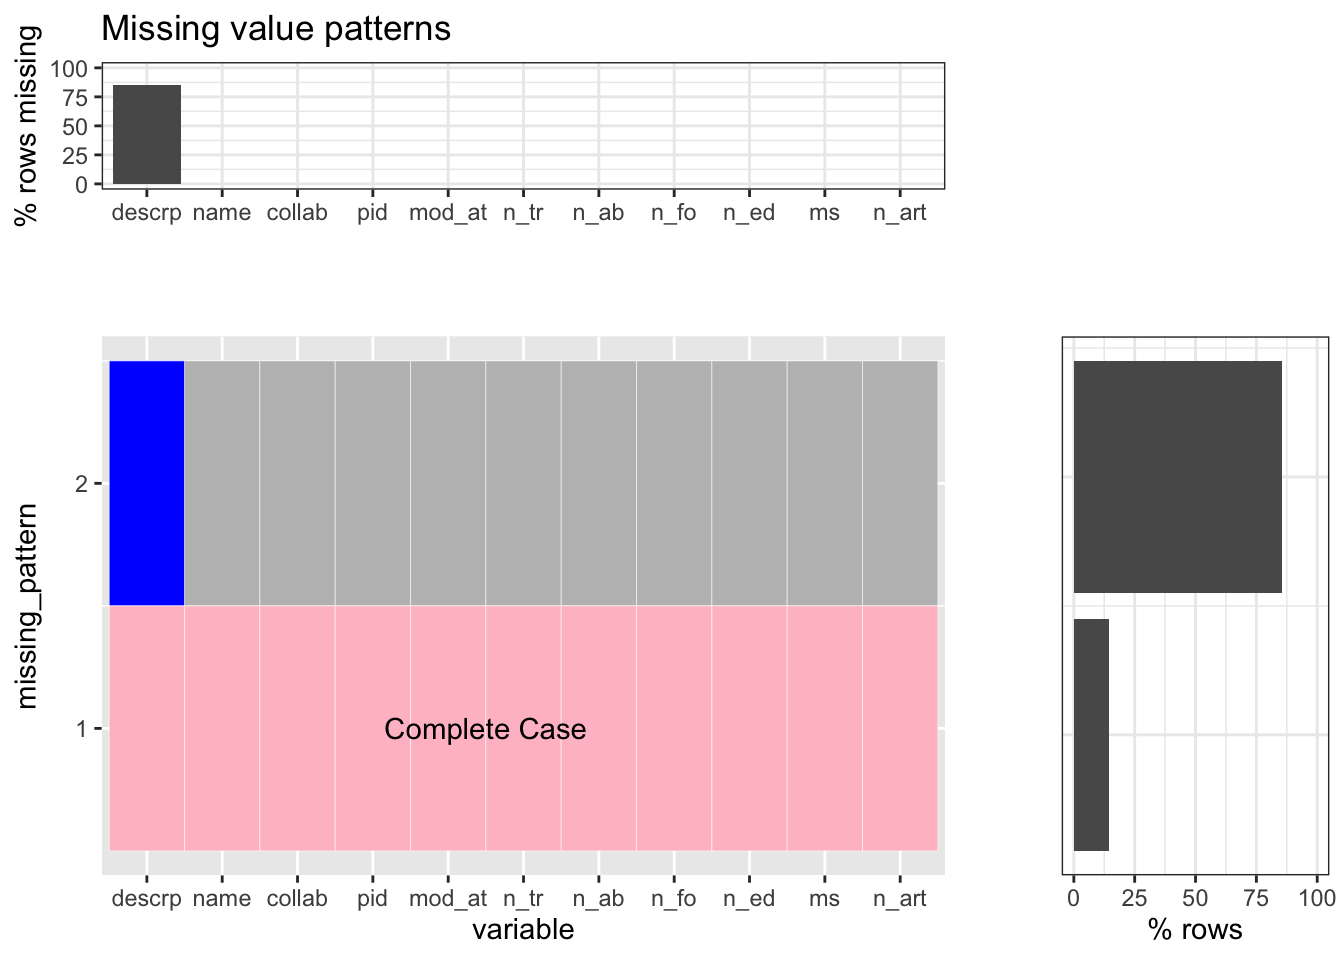
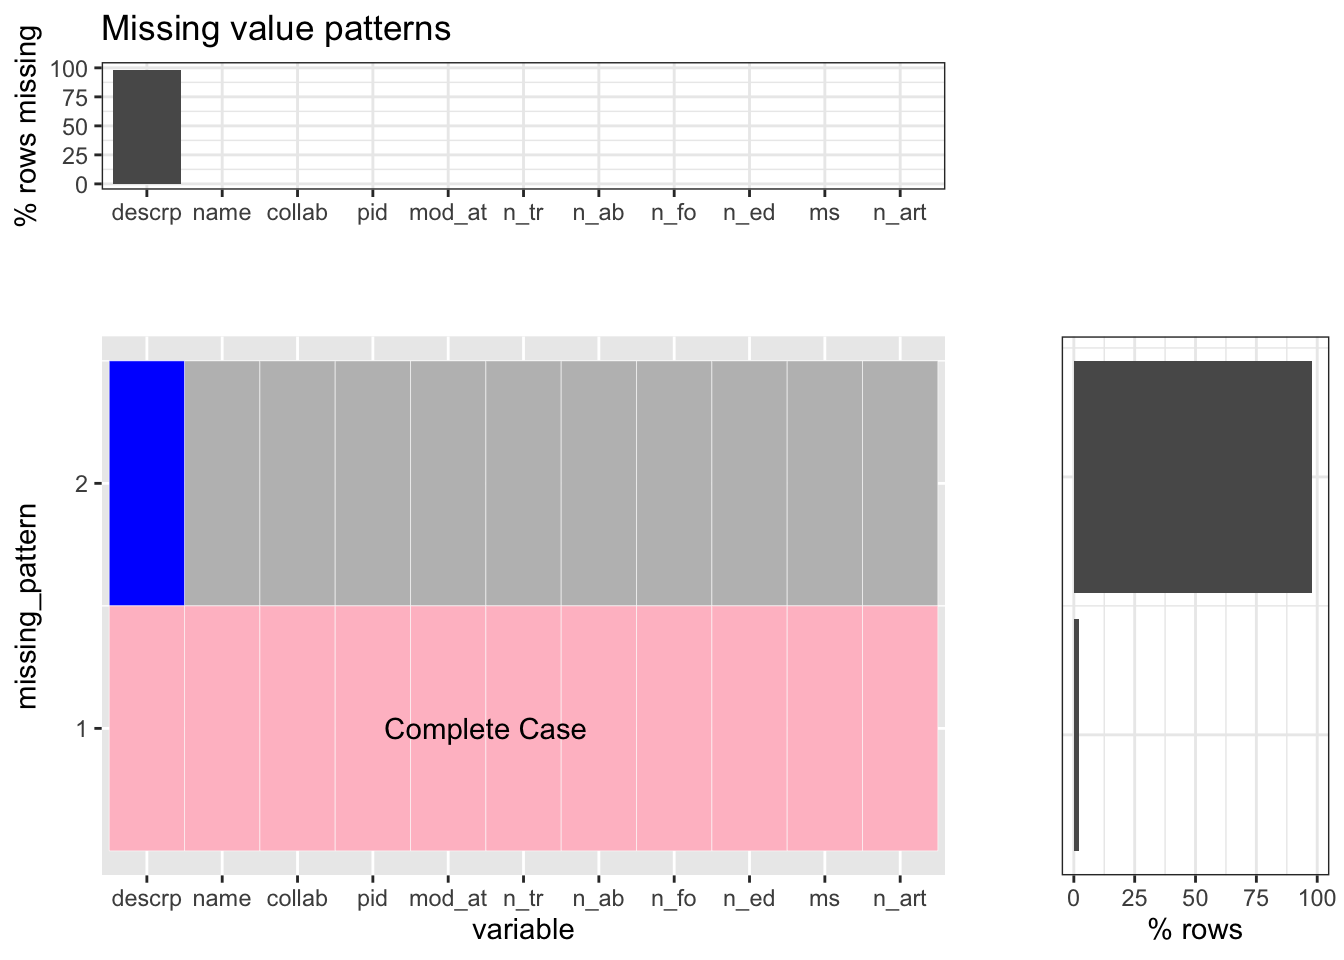
after writing words

Changed region(s): [[0.7812, 0.625, 0.8438, 0.9062], [0.9375, 0.375, 1.0, 0.625], [0.0625, 0.0625, 0.1562, 0.0938]]

diff --git a/docs/results.html b/docs/results.html
@@ -21,7 +21,7 @@
   
   
 
-<meta name="author" content="Benjamin Zimnick &amp; Yuan Wang" />
+<meta name="author" content="Yuan Wang &amp; Benjamin Zimnick" />
 
 
 <meta name="date" content="2021-12-13" />
@@ -117,12 +117,10 @@
 <h2><span class="header-section-number">5.1</span> Contents of popular playlists</h2>
 <div id="artists" class="section level3" number="5.1.1">
 <h3><span class="header-section-number">5.1.1</span> Artists</h3>
-<p><img src="finalproj_files/figure-html/unnamed-chunk-24-1.png" width="672" /></p>
-<p>Show the distribution of the number of tracks each artist has in all tracks:</p>
 <p><img src="finalproj_files/figure-html/unnamed-chunk-25-1.png" width="672" /></p>
-<p>The plot shows that most artists have smaller than 30 appearances on all the tracks of our popular playlists. Next, we examine if the popularity of artist affects the popularity of the playlists by computing the average popularity score of each playlist based on the popularity scores of artists in the playlist.</p>
-<p>We caculate the average popularity score for each playlist based on popularity of its tracks.
-<img src="finalproj_files/figure-html/unnamed-chunk-26-1.png" width="672" /></p>
+<p>Show the distribution of the number of tracks each artist has in all tracks:</p>
+<p><img src="finalproj_files/figure-html/unnamed-chunk-26-1.png" width="672" /></p>
+<p>The plot shows that most artists have smaller than 30 appearances on all the tracks of our popular playlists.</p>
 </div>
 <div id="tracks" class="section level3" number="5.1.2">
 <h3><span class="header-section-number">5.1.2</span> Tracks</h3>
@@ -131,32 +129,35 @@
 </div>
 <div id="popularity" class="section level2" number="5.2">
 <h2><span class="header-section-number">5.2</span> Popularity</h2>
-<p>Plot popularity of tracks versus their frequency in our popular playlists to see if popularity of tracks contribute to popularity of playlists.
-<img src="finalproj_files/figure-html/unnamed-chunk-30-1.png" width="672" />
+<p>Next, we examine if the popularity of artist affects the popularity of the playlists by computing the average popularity score of each playlist based on the popularity scores of artists in the playlist.</p>
+<p>Caculate and plot the average popularity score for each playlist based on popularity of its tracks.
+<img src="finalproj_files/figure-html/unnamed-chunk-30-1.png" width="672" /></p>
+<p>Plot popularity level of tracks versus their frequency in popular playlists to see if popularity of tracks contribute to popularity of playlists.
+<img src="finalproj_files/figure-html/unnamed-chunk-31-1.png" width="672" />
 The range of popularity variable in the spotify’s API of get_track is from 0 to 100, measuing a track’s popularity. The plot above shows that most tracks in our popular playlists are of low popularity, scores smaller than 10. This is not expected, and we investigate the popularity score further by plotting popularity scores of top 30 frequent tracks in popular playlists, which also shows that popularity and frequency in popular playlists of tracks are not correlated. Interestingly, the most frequent track, “All of Me” released in 2013 by John Legend, has a poopularity of 0, which indicates that the popularity score might be calculated based on its current streaming statistics instead of accumulative statistics. Also, given that the highest frequency is only 18 and there are 19579 distinct tracks in 287 popular playlists, the content of these playlists have a wide range of tracks and are not concentrated in a small set of tracks.</p>
 <p>Then for each playlist, caculate and plot the average popularity score of its tracks, artists, or ablbums.</p>
 <div id="popularity-scores" class="section level3" number="5.2.1">
 <h3><span class="header-section-number">5.2.1</span> Popularity Scores</h3>
-<p><img src="finalproj_files/figure-html/unnamed-chunk-32-1.png" width="672" /></p>
+<p><img src="finalproj_files/figure-html/unnamed-chunk-33-1.png" width="672" /></p>
 <p>From the plots above, there is not a correlation betweem the number of followers and the average popularity score of tracks, artists, or albums for popular playlists. However, our popular playlists mostly have an average popularity score of between 20 and 60 for tracks, 30 and 75 for artists, and 20 and 60 for albums.</p>
 </div>
 </div>
 <div id="audio-features" class="section level2" number="5.3">
 <h2><span class="header-section-number">5.3</span> Audio features</h2>
 <p>The function to get audio features of tracks in spotify API return features measuring specific indicators for tracks, such as danceability measuring how suitable a track is for dancing, energy measuring the track’s intensity and activity, acousticness measuring whether the track is acoustic and liveness measuring the confidence of detecting the presence of an audience in the recording.</p>
-<p><img src="finalproj_files/figure-html/unnamed-chunk-33-1.png" width="672" />
+<p><img src="finalproj_files/figure-html/unnamed-chunk-34-1.png" width="672" />
 The above plots show that tracks in our popular playlists mostly have moderately high danceability and energy and low acousticness and liveness. Then we calculate the average of each audio feature among tracks for each playlist and plot them to show if they agree with the plots above.</p>
-<p><img src="finalproj_files/figure-html/unnamed-chunk-35-1.png" width="672" /></p>
+<p><img src="finalproj_files/figure-html/unnamed-chunk-36-1.png" width="672" /></p>
 <p>From the plots above, there is not a correlation betweem the number of followers and the avarage of the four audio features for popular playlists. However, our popular playlists mostly have an average of between 0.4 and 0.8 in danceabiliti, 0.5 and 0.75 in energy, 0 and 0.5 in acousticness, and 0.1 and 0.3 in liveness. Thus, we can say that popular playlists tend to have tracks that are high in danceability and energy, and low in acousticness and liveness, which agrees with the distribution of these features in tracks.</p>
 <p>Next, we investigate the super popular playlists that have number of followers biggher than 10000</p>
 <p>First, we plot the populaity of all tracks in these super popular playlists, which shows that most of the tracks have moderately high popularities (unclear meaning of zero popularity from the Spoitify API).
-<img src="finalproj_files/figure-html/unnamed-chunk-37-1.png" width="672" />
-## Choice of Combination
-Let’s see audio features of tracks for each of these super popular playlists, their correlations, and how these features vary in the order of tracks for each playlist.</p>
+<img src="finalproj_files/figure-html/unnamed-chunk-38-1.png" width="672" /></p>
+<p>##Choice of Combination</p>
+<p>Let’s see audio features of tracks for each of these super popular playlists, their correlations, and how these features vary in the order of tracks for each playlist.</p>
 <p>The correlation plot below shows that acousticness is negatively correlated with each of the three audio features.
-<img src="finalproj_files/figure-html/unnamed-chunk-39-1.png" width="672" /></p>
+<img src="finalproj_files/figure-html/unnamed-chunk-40-1.png" width="672" /></p>
 <p>Then, we add a column to account for the percentage of duration of each track in its corresponding playlists so that the the computed percentage of all tracks in each playlist sums to 100. Based on this value, compute the accumulative percentage of duration for all tracks in each playlist. Since tracks in a playlist is in order of the streaming, the accumulative percentage of duration of a track can be seen as the time when the track is played if its corresponding playlist is being streamed and the whole duration of the playlist is 100.</p>
-<p><img src="finalproj_files/figure-html/unnamed-chunk-42-1.png" width="672" /><img src="finalproj_files/figure-html/unnamed-chunk-42-2.png" width="672" /><img src="finalproj_files/figure-html/unnamed-chunk-42-3.png" width="672" /><img src="finalproj_files/figure-html/unnamed-chunk-42-4.png" width="672" />
+<p><img src="finalproj_files/figure-html/unnamed-chunk-43-1.png" width="672" /><img src="finalproj_files/figure-html/unnamed-chunk-43-2.png" width="672" /><img src="finalproj_files/figure-html/unnamed-chunk-43-3.png" width="672" /><img src="finalproj_files/figure-html/unnamed-chunk-43-4.png" width="672" />
 The four plots show that the the changes of danceability, energy, acousticness, and liveness in the ordered tracks of each super popular playlist varies greatly, and many playlists have tracks in the order of changing these audio features dramatically, even shifting them song by song. Overall, the danceabiility and energy values are mostly moderately high, while the acousticness and liveness are moderately low with spikes of tracks with high values.</p>
 <p>These plots indicates that super popular playlists usually choose a combination of tracks with various audio features and present them in the way of dramatic changes, which is consistent of many audiences’ listening behavior of mixing up songs with different features to avoid boredom.</p>
 

diff --git a/docs/conclusion.html b/docs/conclusion.html
@@ -21,7 +21,7 @@
   
   
 
-<meta name="author" content="Benjamin Zimnick &amp; Yuan Wang" />
+<meta name="author" content="Yuan Wang &amp; Benjamin Zimnick" />
 
 
 <meta name="date" content="2021-12-13" />
@@ -113,6 +113,11 @@
             <section class="normal" id="section-">
 <div id="conclusion" class="section level1" number="7">
 <h1><span class="header-section-number">Chapter 7</span> Conclusion</h1>
+<p>Discuss limitations and future directions, lessons learned.</p>
+<p>Based on our graphical analysis, we conclude that the popularity of playlists are not determined by the popularity of its tracks or albums, although the popularity of artists can be a contributor since most of the popular playlists have tracks from popular artists. Tracks in these popular playlists have a wide range and are not concentrated on a small set of hit records as hypothesized.</p>
+<p>The analysis of audio features of tracks in popular playlists show that most of them are of moderately high danceability and energy with moderately low liveness and acousticness. This finding reflects the current trend of electronic and hip-hop music which have those features and the unpopularity of acoustic and live music. It can lead to further investigation on the occassion where most people are listening to music. For example, are they listening to slow songs alone or at a party streaming dance music?</p>
+<p>The time series of the audio features of tracks in the ordering of streaming a whole super popular playlist indicates that these playlists mostly have tracks whose audio features are constantly changing. Even from one song to another, it can shift to the next that has completely different audio features. This variety demonstrates the creators of the playlists understand that music should be constanstly changing in order to avoid listeners’ loss of interest. The combination also shows that although the acousticness and liveness are mostly low, super popular playlists will sometimes have spikes in them, meaning creators inserting tracks that are more acoustic and like a live performance. These spikes also illustrate the pointing of mixing up tracks of different audio features in the reverse direction.</p>
+<p>The limitations of this project are downloaded from the spotify’s open million playlist chanllenge. These playlists are created between 2010 and 2017, so they might be outdated. Furthermore, spotify’s API does not discuss how they calculate the popularity score of a track. It is unclear if the score is for current streaming statistics or accumulative statistics. Some apparently popular tracks have popularity scores of zero. This might affect the accuracy of this project in terms of the contribution of the popularity of the playlist’s content.</p>
 
 </div>
             </section>

diff --git a/docs/data-transformation.html b/docs/data-transformation.html
@@ -21,7 +21,7 @@
   
   
 
-<meta name="author" content="Benjamin Zimnick &amp; Yuan Wang" />
+<meta name="author" content="Yuan Wang &amp; Benjamin Zimnick" />
 
 
 <meta name="date" content="2021-12-13" />
@@ -115,13 +115,14 @@
 <h1><span class="header-section-number">Chapter 3</span> Data transformation</h1>
 <p>Load the data source of playlists which has more than 1 follower and plot their number of followers to help us to set a threshold for selecting popular playlists.</p>
 <p>The box plot above shows that there are few outliers that have more than 10000 followers, which results in a big range in y-axis and it’s difficult to determine the 75-quantile. Since only a few out of 1303 observations are such outliers, we can plot the number of followers for playlists with less than 10000 followers and use its value of 75-quantile as an approximation.
-<img src="finalproj_files/figure-html/unnamed-chunk-6-1.png" width="672" />
+<img src="finalproj_files/figure-html/unnamed-chunk-7-1.png" width="672" />
 From the four box plots with different upper bounds on the number of followers, we can see that the approximate fourth quarter of the number of followers starts at 250 and contains data with number of followers bigger than 500. Therefore, we define popular playlists as the ones having more than 500 followers.</p>
 <p>To analyze the tracks in each playlist, we try to unpack the field “tracks” in each observation. First, we plot the number of tracks in these playlists.
-<img src="finalproj_files/figure-html/unnamed-chunk-8-1.png" width="672" />
+<img src="finalproj_files/figure-html/unnamed-chunk-9-1.png" width="672" />
 As the box plot of the number of tracks shows that the middle 50% of the number of tracks are between 25 and 125 and the dash line show the mean value of around 85. Therefore, if we use all 1303 playlists of having more than 50 followers, the dataset of their tracks will be of size around (88 * 284) = 24140. We merge the tracks of all playlists into all_tracks for analysis on the contents of these popular playlists.</p>
-<p>Then, we create dfs for all tracks, artist, and albums</p>
-<p>Use spotify API to get popularity info for tracks, albums, and artists.</p>
+<p>Then, we create data frames for all tracks, artists, and albums. Important variables to keep for future analysis are their uri from which we can extract their ids, pid for tracks which is the playlist they are in, and count which is their frequency in all playlists.</p>
+<p>Finally, use spotify API to request information about the popularity of tracks, artists, and albums, and audio fetures of all tracks.</p>
+<p>Each important dataset is saved in .RData form for future load.</p>
 
 </div>
             </section>

diff --git a/docs/missing-values.html b/docs/missing-values.html
@@ -21,7 +21,7 @@
   
   
 
-<meta name="author" content="Benjamin Zimnick &amp; Yuan Wang" />
+<meta name="author" content="Yuan Wang &amp; Benjamin Zimnick" />
 
 
 <meta name="date" content="2021-12-13" />
@@ -114,9 +114,9 @@
 <div id="missing-values" class="section level1" number="4">
 <h1><span class="header-section-number">Chapter 4</span> Missing values</h1>
 <p>The original spotify million playlist data has 1000 json files each contains 1000 playlists. After plotting missing values for several files, we dicover that only the “description” field in “playlists” has missing values and about 98% playlists do not have descriptions. Considering the majority of playlists do not have this field, we decided to exlude it from our analysis. Below are plots of missing values in the first json file, which demonstrates our point. The first plot is for tracks and the second is for playlist basic information.</p>
-<p><img src="finalproj_files/figure-html/unnamed-chunk-18-1.png" width="672" /><img src="finalproj_files/figure-html/unnamed-chunk-18-2.png" width="672" />
+<p><img src="finalproj_files/figure-html/unnamed-chunk-19-1.png" width="672" /><img src="finalproj_files/figure-html/unnamed-chunk-19-2.png" width="672" />
 After extracting the popular playlists with more than 50 followers, we plot its missing values:
-<img src="finalproj_files/figure-html/unnamed-chunk-19-1.png" width="672" /><img src="finalproj_files/figure-html/unnamed-chunk-19-2.png" width="672" /></p>
+<img src="finalproj_files/figure-html/unnamed-chunk-20-1.png" width="672" /><img src="finalproj_files/figure-html/unnamed-chunk-20-2.png" width="672" /></p>
 <p>It show that about 93% of the observations does not have description. Considering the description field is not important for our exploratory analysis and assuming that the listeners might not pay attention to it when deciding whether they like listening to the playlist, we remove this field from our analysis.</p>
 
 </div>

diff --git a/docs/data-sources.html b/docs/data-sources.html
@@ -21,7 +21,7 @@
   
   
 
-<meta name="author" content="Benjamin Zimnick &amp; Yuan Wang" />
+<meta name="author" content="Yuan Wang &amp; Benjamin Zimnick" />
 
 
 <meta name="date" content="2021-12-13" />
@@ -113,6 +113,10 @@
             <section class="normal" id="section-">
 <div id="data-sources" class="section level1" number="2">
 <h1><span class="header-section-number">Chapter 2</span> Data sources</h1>
+<p>Datasets:
+1. Main dataset: <a href="https://www.aicrowd.com/challenges/spotify-million-playlist-datasetchallenge#dataset" class="uri">https://www.aicrowd.com/challenges/spotify-million-playlist-datasetchallenge#dataset</a>
+2. We can use the “spotifyr” package in r to query track and artist information</p>
+<p>The process of collecting data is first download the main dataset in the link. The downloaded directory consists of 1000 files each of which has information for 1000 playlists in json form. Then I wrote a program called found_popular.R (can be found in the main page) to iterate through each file and load them into a temporary dataframe to extract popular playlists with number of followers bigger than 500 to add to the pop_pl_500 dataframe that will be used to do data transformation. I included the process of why I chose the threshold of 500 to be popular playlists in chapter 3.</p>
 
 </div>
             </section>

diff --git a/docs/index.html b/docs/index.html
@@ -21,7 +21,7 @@
   
   
 
-<meta name="author" content="Benjamin Zimnick &amp; Yuan Wang" />
+<meta name="author" content="Yuan Wang &amp; Benjamin Zimnick" />
 
 
 <meta name="date" content="2021-12-13" />
@@ -113,11 +113,12 @@
             <section class="normal" id="section-">
 <div id="header">
 <h1 class="title">Exploratory Data Analysis of Spotify Playlists</h1>
-<p class="author"><em>Benjamin Zimnick &amp; Yuan Wang</em></p>
+<p class="author"><em>Yuan Wang &amp; Benjamin Zimnick</em></p>
 <p class="date"><em>2021-12-13</em></p>
 </div>
 <div id="introduction" class="section level1" number="1">
 <h1><span class="header-section-number">Chapter 1</span> Introduction</h1>
+<p>Playlist is the new way of listening to music. Before, people buy albums and listen to the records in the order created by the musician. Now, audience create and listen to playlists created by ordinary people. The goal of this project is to analyze popular playlists created by Spotify users using visualizations and try to gain insights into why these playlists attract so many followers. I explored this question from aspects including the content (tracks, artist, albums) of playlists, audio features of tracks, choice of combining tracks, etc.</p>
 
 </div>
             </section>

diff --git a/docs/404.html b/docs/404.html
@@ -21,7 +21,7 @@
   
   
 
-<meta name="author" content="Benjamin Zimnick &amp; Yuan Wang" />
+<meta name="author" content="Yuan Wang &amp; Benjamin Zimnick" />
 
 
 <meta name="date" content="2021-12-13" />

diff --git a/docs/interactive-component.html b/docs/interactive-component.html
@@ -21,7 +21,7 @@
   
   
 
-<meta name="author" content="Benjamin Zimnick &amp; Yuan Wang" />
+<meta name="author" content="Yuan Wang &amp; Benjamin Zimnick" />
 
 
 <meta name="date" content="2021-12-13" />
